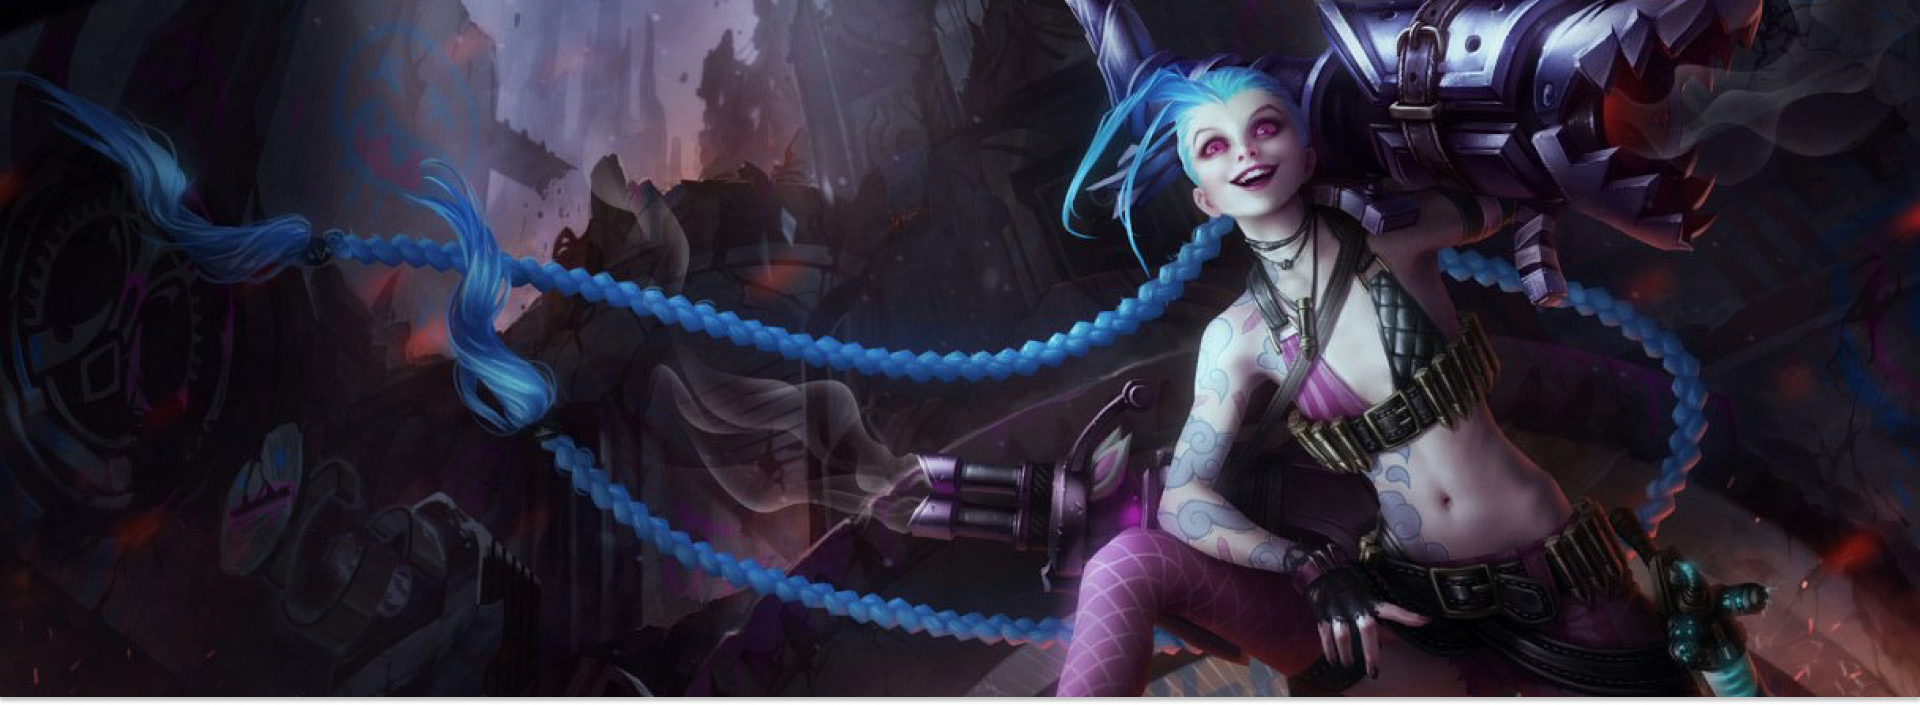
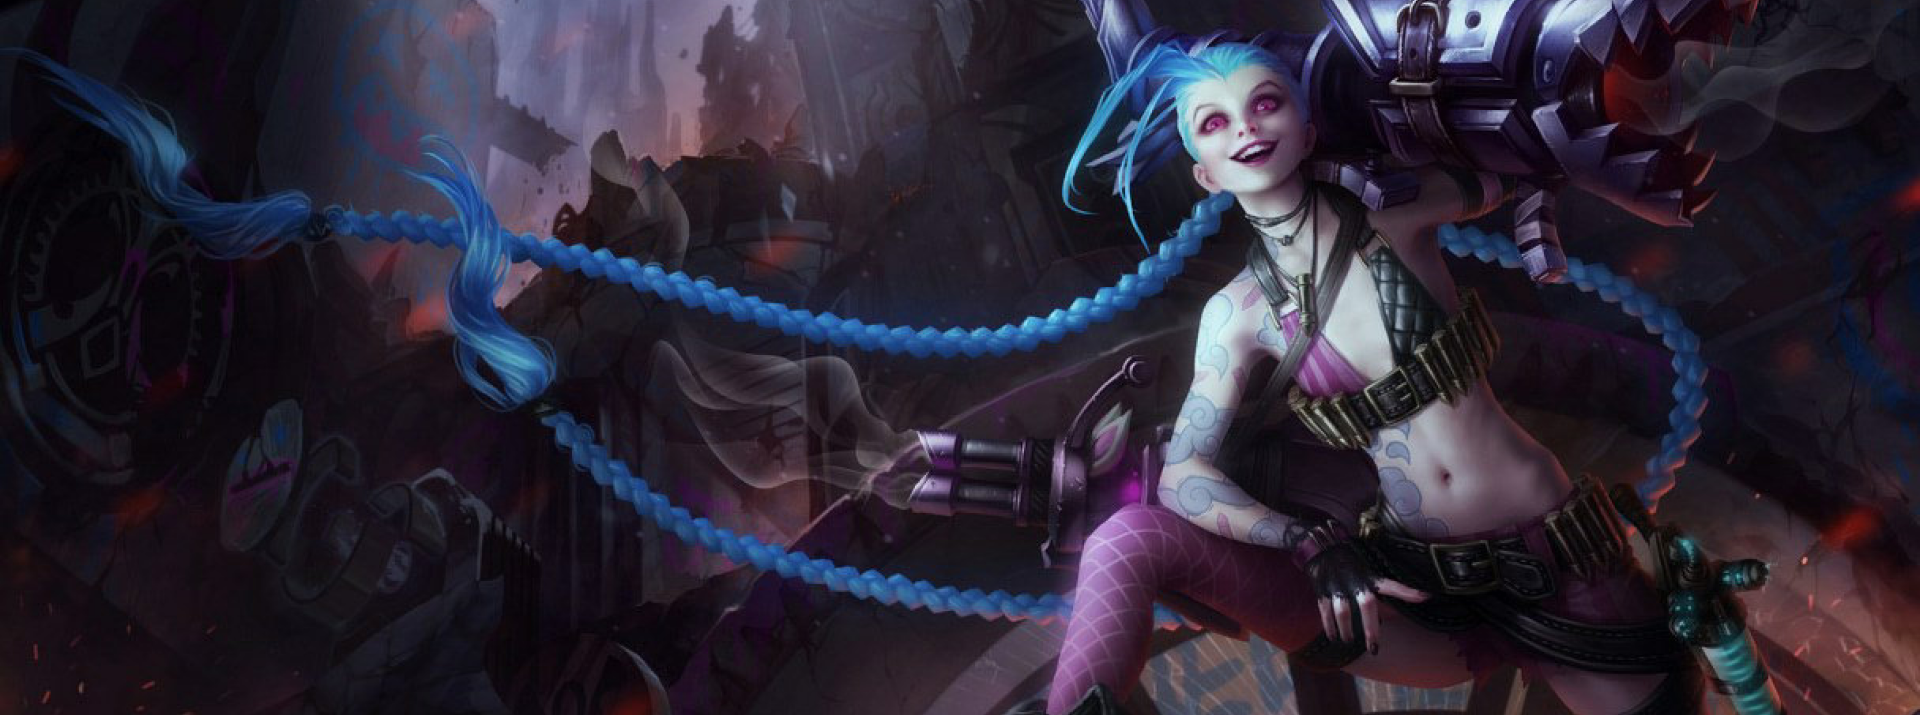
encontro remoto 4

diff --git a/uc9/eplayers/js/script.js b/uc9/eplayers/js/script.js
@@ -1,4 +1,41 @@
-$(document).ready
+$(document).ready(function(){
+
+    let slideAtual = 1
+    let listaSlides = ["banner-lol", "banner-cp", "banner-ds"]
+
+    setInterval(mudarSlide, 2000);
+
+    function mudarSlide(){
+        //remover o slider anterior
+        if (slideAtual > 0){
+            $("#carrossel").removeClass(listaSlides[slideAtual -1])
+        }
+        else{
+            $("#carrossel").removeClass(listaSlides[listaSlides.length -1])
+        }
+
+        //exibir o slide atual
+        $("#carrossel").addClass(listaSlides[slideAtual])
+
+        //indicar qual o slide atual
+        console.log("Slide atual é: ",slideAtual)
+        slideAtual ++
+
+        if (slideAtual > listaSlides.length -1){
+            slideAtual = 0
+        }
+    }
+
+
+    $("#barras").click(function(){
+        if ($("#menu").hasClass("menu-ativo")){
+            $("#menu").removeClass("menu-ativo")
+        }
+        else{
+            $("#menu").addClass("menu-ativo")
+        }
+    })
+})
 
 
 function cadastrarNewsletter(){

diff --git a/uc9/eplayers/index.html b/uc9/eplayers/index.html
@@ -25,17 +25,18 @@
                     <a href="">notícias</a>
                 </nav>
             <a class="pseudo-botao" href="">inscreva-se</a>
-            <a onclick="mostrarmenu (event)" href="" id="barras"><img class="icone-menu" src="img/bars.svg" alt="icone do menú de barras"></a>
+            <!-- a onclick="mostrarmenu (event)" href="" id="barras"><img class="icone-menu" src="img/bars.svg" alt="icone do menú de barras"></a>-->
+            <a href="#" id="barras"><img class="icone-menu" src="img/bars.svg" alt="icone do menú de barras"></a>
         </div>
     </header>
 
-            <section class="banner">
+            <section id="carrossel" class="banner banner-lol">
         <div class="container-grid posicionamento-banner">
             <div class="conteudo-banner">
                 <h1>diam maecenas</h1>
                 <p>fringilla ut morbi tincidunt</p>
             </div>
-        </div>
+        </div> 
     </section>
     
     <section class="jogos">

diff --git a/uc9/eplayers/style.css b/uc9/eplayers/style.css
@@ -59,10 +59,21 @@ header{
 
 .banner{
     height: 640px;
-    background-image: url(img/banner.png);
     background-repeat: no-repeat;
     background-position: center;
     background-size: cover;
+}
+
+.banner-lol{
+    background-image: url(img/banner.png);
+}
+
+.banner-cp{
+    background-image: url(img/bannercp.png);
+}
+
+.banner-ds{
+    background-image: url(img/bannerds.png);
 }
 
 .conteudo-banner h1{
@@ -308,6 +319,10 @@ footer a{
         font-size: 20px;
     }
     
+    .menu-ativo{
+        display: flex;
+    }
+
     .cabecalho{
         position: relative;
     }
